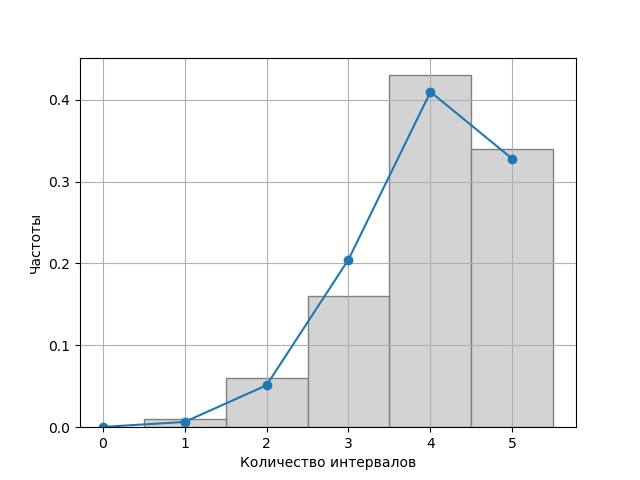
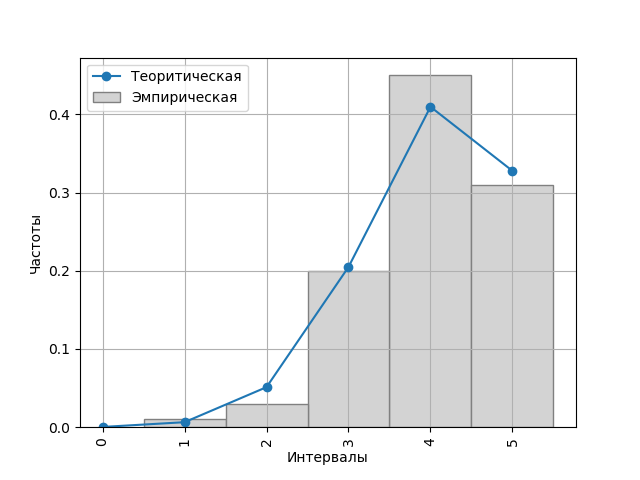
lab3 -- refactoring

diff --git a/3/main.py b/3/main.py
@@ -1,35 +1,37 @@
 import algorithms as alg
+import file_functions as ff
+
 
 INPUT_PATH  = "input/"
 OUTPUT_PATH = "output/"
 
 # Названия файла входных данных тестов
-TESTS_FILENAME = INPUT_PATH + "tests_settings.txt"
+TESTS_FILENAME = "tests_settings.txt"
 
 # Названия файлов выходных данных
-RECURRENCE_FORMULA_RESULT = OUTPUT_PATH + "recurrence_formula_result.txt"
-POISSON_RESULT            = OUTPUT_PATH + "poisson_result.txt"
+RECURRENCE_FORMULA_RESULT = "recurrence_formula_result.txt"
+POISSON_RESULT            = "poisson_result.txt"
 
 # Названия файлов выходных данных гистограмм
-RECURRENCE_FORMULA_HIST = OUTPUT_PATH + "recurrence_formula_histogram.png"
-POISSON_HIST            = OUTPUT_PATH + "poisson_histogram.png"
+RECURRENCE_FORMULA_HIST = "recurrence_formula_histogram.png"
+POISSON_HIST            = "poisson_histogram.png"
 
 
 def main():
     # Чтение данных тестов
-    n, alpha, precision, recurrence_formula_run, m, p, poisson_run, lambd = alg.ff.read_tests_settings(TESTS_FILENAME)
+    n, alpha, precision, recurrence_formula_run, m, p, poisson_run, lambd = ff.read_tests_settings(INPUT_PATH + TESTS_FILENAME)
     # Тест критерия типа хи-квадрат для Биномиального распределения
     if recurrence_formula_run:
         sequence, operations_count, P, implement_count = alg.recurrence_formula(n, m, p)
-        S, S_alpha, PSS, v, interval_hits, PSS_passed, S_alpha_passed = alg.chi2_test(sequence, P, implement_count, alpha, plot=True, plot_name=RECURRENCE_FORMULA_HIST) 
-        alg.ff.write_chi2_results(RECURRENCE_FORMULA_RESULT, precision, sequence, P, alpha, n, m, p, alg.ff.NONE, 
-                                  S, S_alpha, PSS, implement_count, v, interval_hits, operations_count, S_alpha_passed, PSS_passed)
+        S, S_alpha, PSS, v, interval_hits, PSS_passed, S_alpha_passed = alg.chi2_test(sequence, P, implement_count, alpha, plot=True, plot_name=OUTPUT_PATH+RECURRENCE_FORMULA_HIST) 
+        ff.write_chi2_results(OUTPUT_PATH + RECURRENCE_FORMULA_RESULT, precision, sequence, P, alpha, n, m, p, ff.NONE, 
+                              S, S_alpha, PSS, implement_count, v, interval_hits, operations_count, S_alpha_passed, PSS_passed)
     # Тест критерия типа хи-квадрат для распределения Пуассона
     if poisson_run:
         sequence, operations_count, P, implement_count = alg.poisson(n, lambd)
-        S, S_alpha, PSS, v, interval_hits, PSS_passed, S_alpha_passed = alg.chi2_test(sequence, P, implement_count, alpha, plot=True, plot_name=POISSON_HIST) 
-        alg.ff.write_chi2_results(POISSON_RESULT, precision, sequence, P, alpha, n, alg.ff.NONE, alg.ff.NONE, lambd, 
-                                  S, S_alpha, PSS, implement_count, v, interval_hits, operations_count, S_alpha_passed, PSS_passed)
+        S, S_alpha, PSS, v, interval_hits, PSS_passed, S_alpha_passed = alg.chi2_test(sequence, P, implement_count, alpha, plot=True, plot_name=OUTPUT_PATH+POISSON_HIST) 
+        ff.write_chi2_results(OUTPUT_PATH + POISSON_RESULT, precision, sequence, P, alpha, n, ff.NONE, ff.NONE, lambd, 
+                              S, S_alpha, PSS, implement_count, v, interval_hits, operations_count, S_alpha_passed, PSS_passed)
 
 
 if __name__ == "__main__":

diff --git a/3/algorithms.py b/3/algorithms.py
@@ -1,15 +1,15 @@
-import math
-import random
-import sympy as sp
-import scipy.stats as st
-import collections as col
-import scipy.integrate as integrate
-import file_functions as ff
+from math import exp, inf, gamma
+from scipy.stats import chi2
+from sympy import binomial, factorial
+from scipy.integrate import quad
+from random import uniform
+from collections import Counter
+from file_functions import draw_histogram
 
 
 # Биномиальный закон распределения
 def binomial_distribution(m, k, p):
-    return sp.binomial(m, k) * p**k * (1 - p)**(m - k)
+    return binomial(m, k) * p**k * (1 - p)**(m - k)
 
 
 def r(m, k, p):
@@ -25,7 +25,7 @@ def recurrence_formula(n, m, p):
     P = [binomial_distribution(m, i, p) for i in range(m + 1)]
     # Генерация чисел, принадлежащих распределению и попаданию в интервал из m
     for _ in range(n):
-        M = random.uniform(0, 1)
+        M = uniform(0, 1)
         Pk = P[0]
         k = 0
         # Проверка попадания в интервал
@@ -44,7 +44,7 @@ def recurrence_formula(n, m, p):
 
 # Закон распределения Пуассона
 def poisson_distribution(k, lambd):
-    return math.exp(-lambd) * lambd**k / sp.factorial(k)
+    return exp(-lambd) * lambd**k / factorial(k)
 
 
 # Нестандартный алгоритм для распределения Пуассона
@@ -64,7 +64,7 @@ def poisson(n, lambd):
     operations_count = 4 + L + 9 * n
     # Генерация чисел, принадлежащих распределению и попаданию в интервал из n
     for _ in range(n):
-        M = random.uniform(0, 1) - Q
+        M = uniform(0, 1) - Q
         k = L
         if 0 <= M: 
             while 0 <= M:
@@ -87,7 +87,7 @@ def chi2_test(sequence, P, m, alpha, plot=False, plot_name="chi2_test_histogram.
     # Относительные частоты попадания в интервал
     v = []
     intervals = []
-    interval_hits = col.Counter(sequence)
+    interval_hits = Counter(sequence)
     n = len(sequence)
     for hit in interval_hits:
         v.append(interval_hits[hit] / n)
@@ -95,13 +95,13 @@ def chi2_test(sequence, P, m, alpha, plot=False, plot_name="chi2_test_histogram.
     # Расчёт значения статистики критерия хи-квадрат
     S = n * sum((interval_hits[i] / n - P[i])**2 / P[i] for i in range(m + 1))
     r = m - 1
-    integral_res = integrate.quad(lambda S: S**(r / 2 - 1) * math.exp(-S / 2), S, math.inf)[0]
-    PSS = integral_res / (2**(r / 2) * math.gamma(r / 2))
+    integral_res = quad(lambda S: S**(r / 2 - 1) * exp(-S / 2), S, inf)[0]
+    PSS = integral_res / (2**(r / 2) * gamma(r / 2))
     PSS_passed = alpha < PSS
-    S_alpha = st.chi2.isf(alpha, r)
+    S_alpha = chi2.isf(alpha, r)
     S_alpha_passed = S < S_alpha
     if plot:
         theor_intervals = [i for i in range(max(intervals) + 1)] 
         theor_v = P[:max(intervals) + 1]
-        ff.draw_histogram(plot_name, intervals, v, theor_intervals, theor_v)
+        draw_histogram(plot_name, intervals, v, theor_intervals, theor_v)
     return S, S_alpha, PSS, v, interval_hits, S_alpha_passed, PSS_passed

diff --git a/3/file_functions.py b/3/file_functions.py
@@ -1,6 +1,7 @@
-import sys
-import numpy as np
 import matplotlib.pyplot as plt
+from numpy import arange
+from sys import exit
+
 
 # Отсутствие параметра для вывода результата
 NONE = 0
@@ -11,14 +12,16 @@ def str_to_bool(str):
 
 
 def draw_histogram(picturename, intervals, v, theor_intervals, theor_v):
-    plt.xlabel("Количество интервалов")
+    plt.xlabel("Интервалы")
     plt.ylabel("Частоты")
-    plt.xticks(np.arange(max(intervals) + 2))
-    plt.plot(theor_intervals, theor_v, marker="o")
-    plt.bar(intervals, v, width=1, align="center", edgecolor="grey", color="lightgrey")
+    plt.xticks(arange(max(intervals) + 2), rotation=90)
+    plt.plot(theor_intervals, theor_v, marker="o", label="Теоритическая")
+    plt.bar(intervals, v, width=1, align="center", edgecolor="grey", color="lightgrey", label="Эмпирическая")
+    plt.legend(loc="best", frameon=True)
     plt.grid(True)
     plt.savefig(picturename)
     plt.clf()
+    plt.close()
 
 
 # Чтение данных для выполняемых тестов
@@ -27,7 +30,7 @@ def read_tests_settings(filename):
         f = open(filename, "r")
     except IOError:
         print("Невозможно открыть файл: {0}".format(filename))
-        sys.exit()
+        exit()
     # Длина поселдовательности
     n = int(f.readline())
     # Уровень значимости
